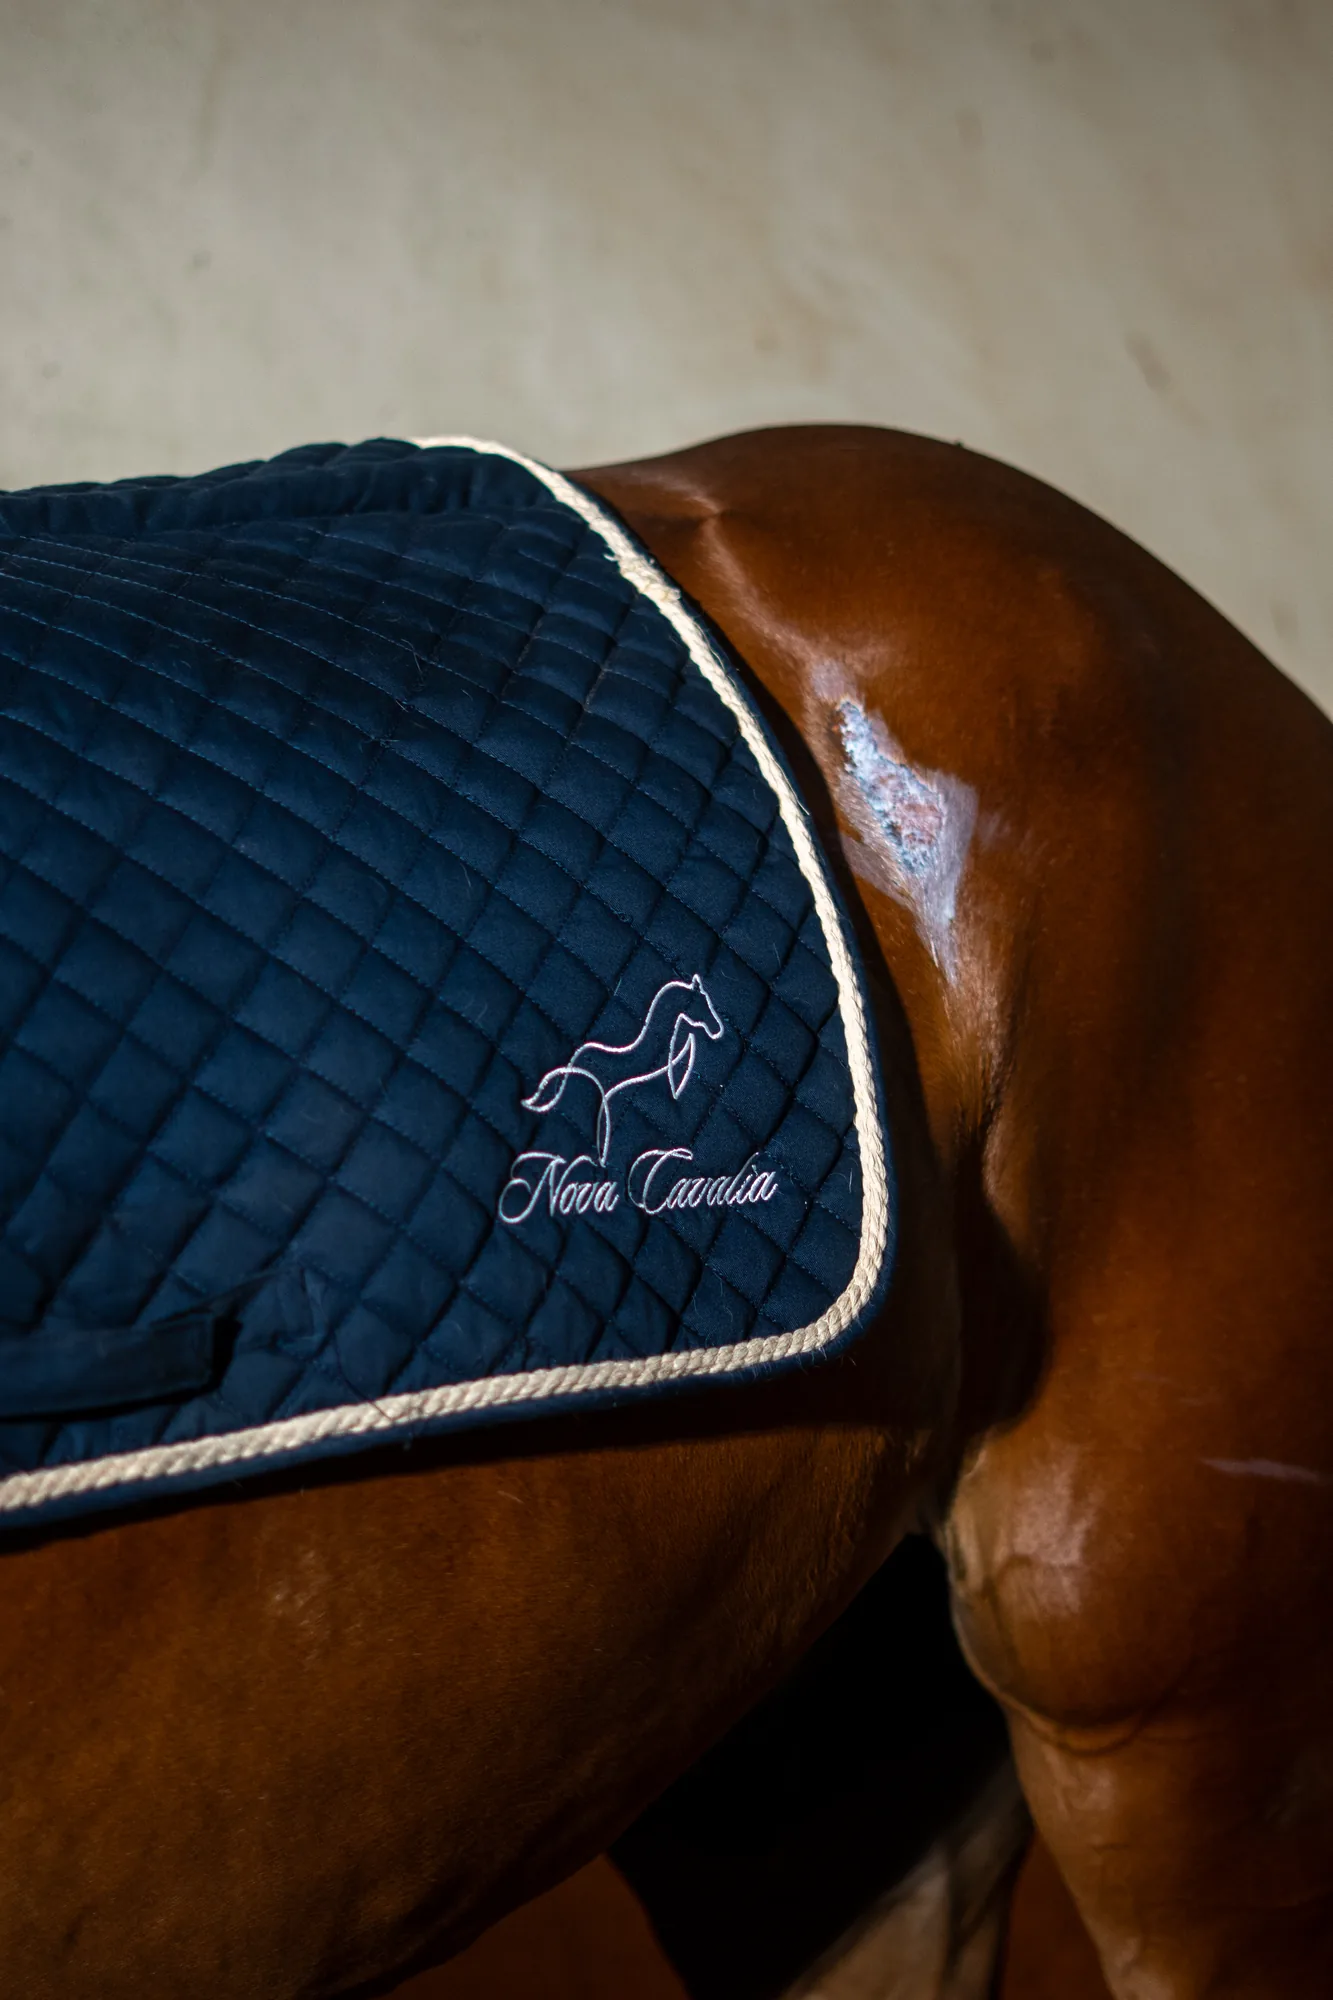
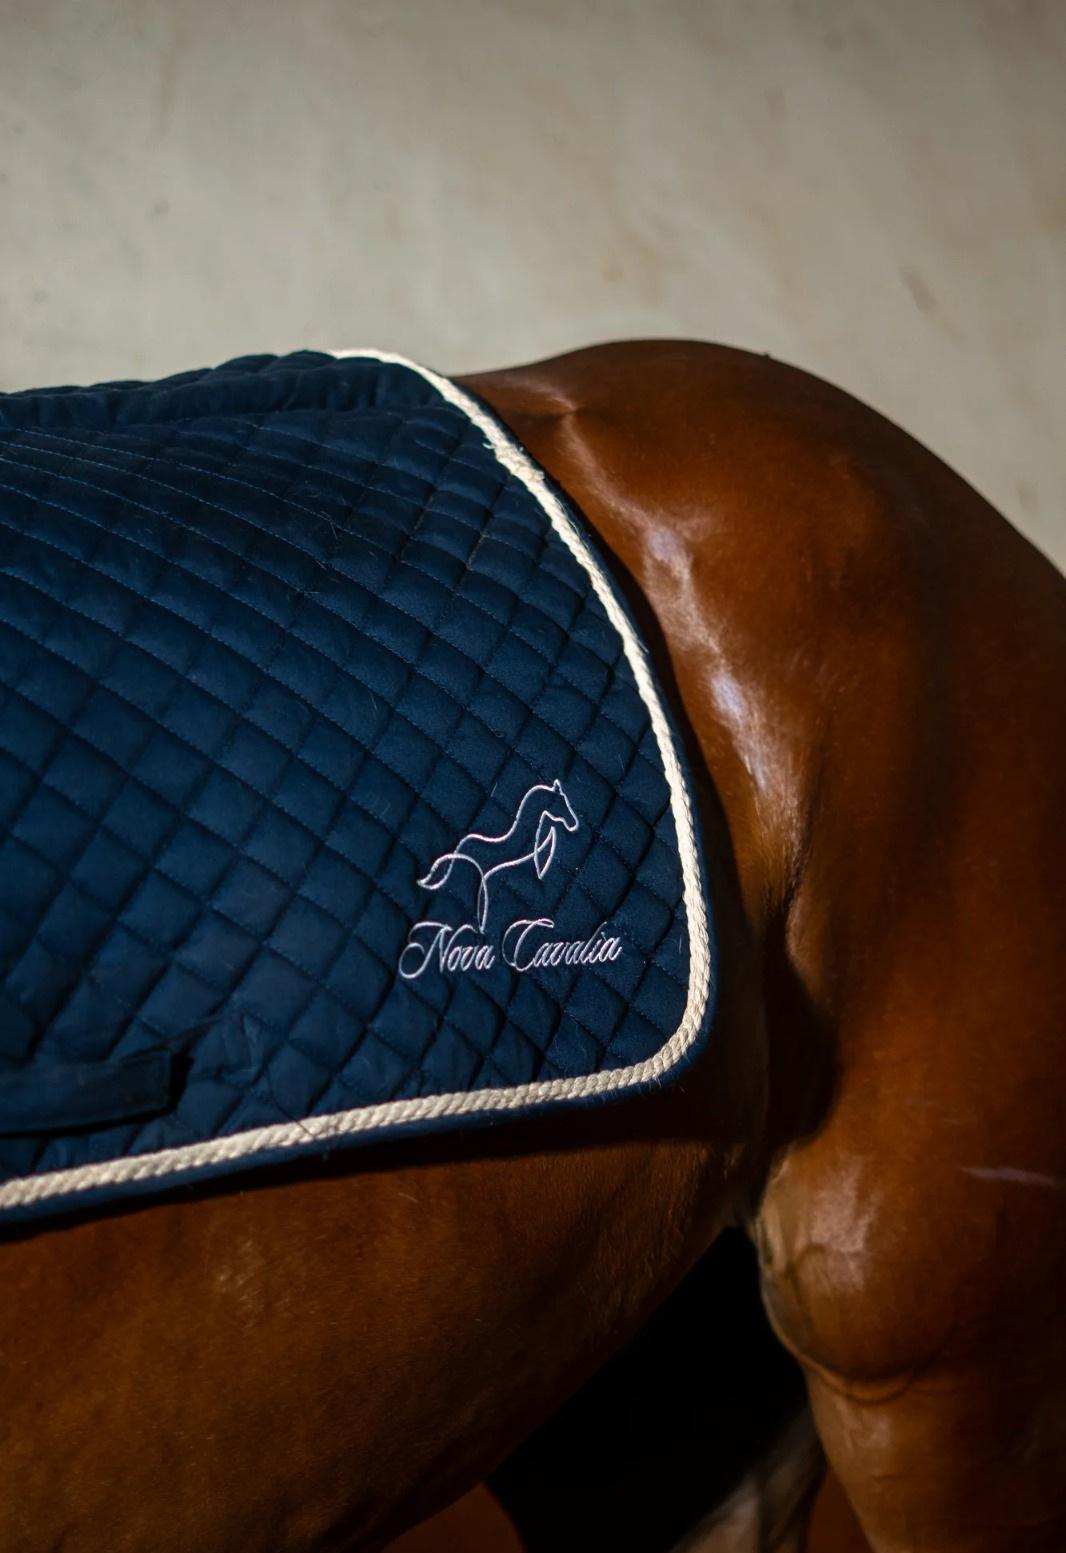
fix: use horse-and-tapis photo for Tapis de Selle

diff --git a/components/shop/ProductGallery.tsx b/components/shop/ProductGallery.tsx
@@ -6,46 +6,67 @@ import SmartImage from "@/components/ui/SmartImage";
 import { IconClose, IconPlus } from "@/components/Icons";
 import { lockScroll } from "@/lib/lenis";
 import { EASE, cn } from "@/lib/utils";
+import { useFit } from "@/lib/fit";
 import type { ImageRef } from "@/lib/images";
+import type { Fit } from "@/content/products";
+
+const keyOf = (img: ImageRef, i: number) =>
+  (typeof img === "string" ? img : img.src) + i;
 
 export default function ProductGallery({
   images,
+  galleryByFit,
   name,
 }: {
   images: ImageRef[];
+  galleryByFit?: Partial<Record<Fit, ImageRef[]>>;
   name: string;
 }) {
+  const fit = useFit((s) => s.fit) as Fit | undefined;
+  const imgs =
+    fit && galleryByFit?.[fit]?.length ? galleryByFit[fit]! : images;
+
   const [index, setIndex] = useState(0);
   const [zoom, setZoom] = useState(false);
+
+  // When the fit (and so the image set) changes, return to the first shot.
+  useEffect(() => setIndex(0), [fit]);
 
   useEffect(() => {
     if (!zoom) return;
     lockScroll(true);
     const onKey = (e: KeyboardEvent) => {
       if (e.key === "Escape") setZoom(false);
-      if (e.key === "ArrowRight") setIndex((i) => (i + 1) % images.length);
-      if (e.key === "ArrowLeft") setIndex((i) => (i - 1 + images.length) % images.length);
+      if (e.key === "ArrowRight") setIndex((i) => (i + 1) % imgs.length);
+      if (e.key === "ArrowLeft")
+        setIndex((i) => (i - 1 + imgs.length) % imgs.length);
     };
     window.addEventListener("keydown", onKey);
     return () => {
       lockScroll(false);
       window.removeEventListener("keydown", onKey);
     };
-  }, [zoom, images.length]);
+  }, [zoom, imgs.length]);
+
+  const safeIndex = Math.min(index, imgs.length - 1);
+  const current = imgs[safeIndex];
+  const currentKey = typeof current === "string" ? current : current.src;
 
   return (
     <div className="lg:grid lg:grid-cols-[80px_1fr] lg:gap-4">
       {/* thumbnails */}
       <div className="order-2 mt-3 flex gap-3 overflow-x-auto lg:order-1 lg:mt-0 lg:flex-col lg:overflow-visible no-scrollbar">
-        {images.map((img, i) => (
+        {imgs.map((img, i) => (
           <button
-            key={(typeof img === "string" ? img : img.src) + i}
+            key={keyOf(img, i)}
             onClick={() => setIndex(i)}
             data-cursor="hover"
             aria-label={`Voir l'image ${i + 1}`}
             className={cn(
               "relative aspect-[4/5] w-16 shrink-0 overflow-hidden rounded-[2px] bg-paper-2 ring-1 transition-all lg:w-full",
-              index === i ? "ring-ink" : "ring-transparent opacity-70 hover:opacity-100",
+              safeIndex === i
+                ? "ring-ink"
+                : "ring-transparent opacity-70 hover:opacity-100",
             )}
           >
             <SmartImage image={img} fill sizes="80px" position="50% 30%" />
@@ -63,7 +84,7 @@ export default function ProductGallery({
         >
           <AnimatePresence mode="wait">
             <motion.div
-              key={index}
+              key={currentKey}
               className="absolute inset-0"
               initial={{ opacity: 0 }}
               animate={{ opacity: 1 }}
@@ -71,9 +92,9 @@ export default function ProductGallery({
               transition={{ duration: 0.4, ease: EASE }}
             >
               <SmartImage
-                image={images[index]}
+                image={current}
                 fill
-                priority={index === 0}
+                priority={safeIndex === 0}
                 sizes="(min-width: 1024px) 50vw, 100vw"
                 position="50% 28%"
                 className="transition-transform duration-[1.2s] ease-[cubic-bezier(0.16,1,0.3,1)] group-hover:scale-[1.04]"
@@ -98,7 +119,7 @@ export default function ProductGallery({
           >
             <div className="flex items-center justify-between px-6 py-5 text-paper">
               <span className="label-xs text-paper/80">
-                {name} — {index + 1}/{images.length}
+                {name} — {safeIndex + 1}/{imgs.length}
               </span>
               <button
                 onClick={() => setZoom(false)}
@@ -116,7 +137,7 @@ export default function ProductGallery({
               tabIndex={-1}
             >
               <SmartImage
-                image={images[index]}
+                image={current}
                 fill
                 sizes="100vw"
                 position="50% 30%"
@@ -124,15 +145,17 @@ export default function ProductGallery({
               />
             </div>
             <div className="flex justify-center gap-2 px-6 py-5">
-              {images.map((img, i) => (
+              {imgs.map((img, i) => (
                 <button
-                  key={(typeof img === "string" ? img : img.src) + i}
+                  key={keyOf(img, i)}
                   onClick={() => setIndex(i)}
                   aria-label={`Image ${i + 1}`}
                   data-cursor="hover"
                   className={cn(
                     "h-1.5 rounded-full transition-all duration-300",
-                    index === i ? "w-7 bg-paper" : "w-1.5 bg-paper/40 hover:bg-paper/70",
+                    safeIndex === i
+                      ? "w-7 bg-paper"
+                      : "w-1.5 bg-paper/40 hover:bg-paper/70",
                   )}
                 />
               ))}

diff --git a/content/products.ts b/content/products.ts
@@ -23,6 +23,8 @@ export type Product = {
   sizeNote: string;
   hero: ImageRef;
   gallery: ImageRef[];
+  /** optional per-fit galleries — the gallery swaps when the fit is toggled */
+  galleryByFit?: Partial<Record<Fit, ImageRef[]>>;
   card: ImageRef;
   cardHover: ImageRef;
   macro: ImageRef[];
@@ -66,13 +68,31 @@ export const products: Product[] = [
     sizeNote: "Coupe ajustée. Si vous hésitez, prenez votre taille habituelle.",
     hero: "veste-studio",
     gallery: [
-      "veste-studio",
-      "veste-homme-studio",
       "veste-femme-1",
       "veste-femme-2",
+      "veste-femme-3",
+      "veste-studio",
       "veste-macro-sleeve",
       "veste-macro-buttons",
     ],
+    galleryByFit: {
+      Femme: [
+        "veste-femme-1",
+        "veste-femme-2",
+        "veste-femme-3",
+        "veste-studio",
+        "veste-macro-sleeve",
+        "veste-macro-buttons",
+      ],
+      Homme: [
+        "veste-homme-studio",
+        "veste-homme-1",
+        "veste-homme-2",
+        "veste-homme-3",
+        "veste-homme-mounted",
+        "veste-macro-cuff",
+      ],
+    },
     card: "veste-femme-3",
     cardHover: "veste-homme-2",
     macro: ["veste-macro-sleeve", "veste-macro-cuff", "veste-macro-buttons"],

diff --git a/components/shop/BuyBox.tsx b/components/shop/BuyBox.tsx
@@ -15,6 +15,7 @@ import {
 import SizeGuide from "./SizeGuide";
 import CareAccordion from "./CareAccordion";
 import type { Product, Fit, SizeOption } from "@/content/products";
+import { useFit } from "@/lib/fit";
 
 const reassurance = [
   { icon: IconTruck, text: "Livraison offerte au Maroc dès 800 Dhs" },
@@ -24,6 +25,7 @@ const reassurance = [
 
 export default function BuyBox({ product }: { product: Product }) {
   const add = useCart((s) => s.add);
+  const publishFit = useFit((s) => s.setFit);
   const [color, setColor] = useState(
     product.colors.find((c) => c.available) ?? product.colors[0],
   );
@@ -41,6 +43,7 @@ export default function BuyBox({ product }: { product: Product }) {
     : product.sizes ?? [];
 
   useEffect(() => setSize(undefined), [fit]);
+  useEffect(() => publishFit(fit), [fit, publishFit]);
 
   useEffect(() => {
     const el = ctaRef.current;

diff --git a/app/produit/[slug]/page.tsx b/app/produit/[slug]/page.tsx
@@ -88,7 +88,11 @@ export default async function ProductPage({
       {/* gallery + buy */}
       <section className="edge-x grid grid-cols-1 gap-10 pb-20 lg:grid-cols-2 lg:gap-16">
         <div className="lg:sticky lg:top-28 lg:self-start">
-          <ProductGallery images={product.gallery} name={product.name} />
+          <ProductGallery
+            images={product.gallery}
+            galleryByFit={product.galleryByFit}
+            name={product.name}
+          />
         </div>
         <BuyBox product={product} />
       </section>

diff --git a/lib/fit.ts b/lib/fit.ts
@@ -1,0 +1,17 @@
+"use client";
+
+import { create } from "zustand";
+
+type FitState = {
+  fit?: string;
+  setFit: (fit?: string) => void;
+};
+
+/**
+ * The currently selected product fit (Femme / Homme), shared between the buy
+ * box and the gallery so the photos swap when the customer toggles the fit.
+ */
+export const useFit = create<FitState>((set) => ({
+  fit: undefined,
+  setFit: (fit) => set({ fit }),
+}));
